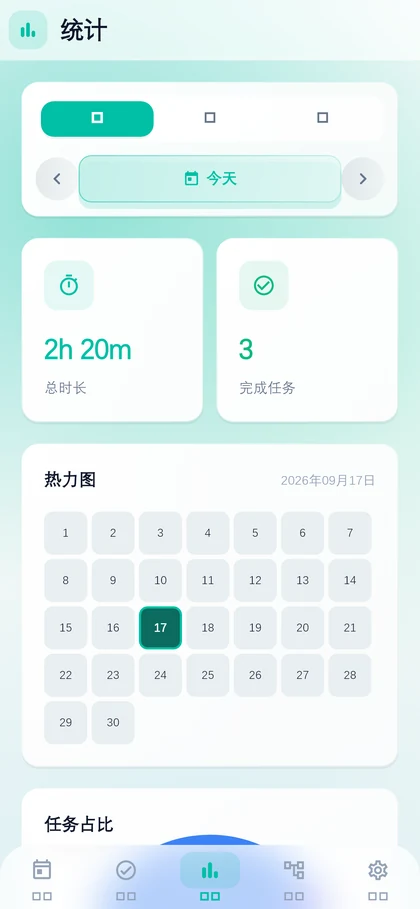
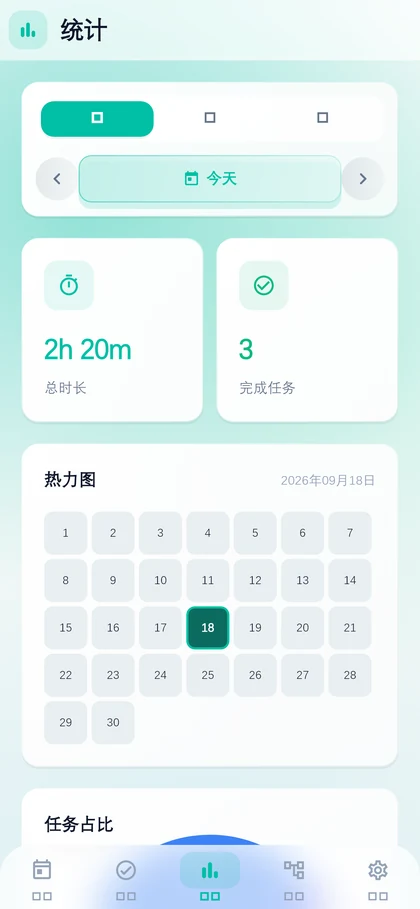
chore: v1.3.3 版本号、README 与截图
README 里的数据存储一节描述的还是旧的「复制成 .bak 再覆盖」写法，
表清单也停在五张（少了 weekly_goals），测试数停在 75。一并订正。

截图是 v1.3.1 时代生成的，一直没跟着后来的改动重出，这次刷新。

Changed region(s): [[0.3095, 0.6469, 0.5571, 0.7393]]

diff --git a/lib/core/constants/app_constants.dart b/lib/core/constants/app_constants.dart
@@ -1,7 +1,7 @@
 class AppConstants {
   static const String appName = 'TimeWayPro';
   static const String appNameCn = '时途';
-  static const String appVersion = '1.3.2';
+  static const String appVersion = '1.3.3';
 
   // WebDAV默认配置
   static const String defaultWebDavUrl = 'https://dav.jianguoyun.com/dav/';
